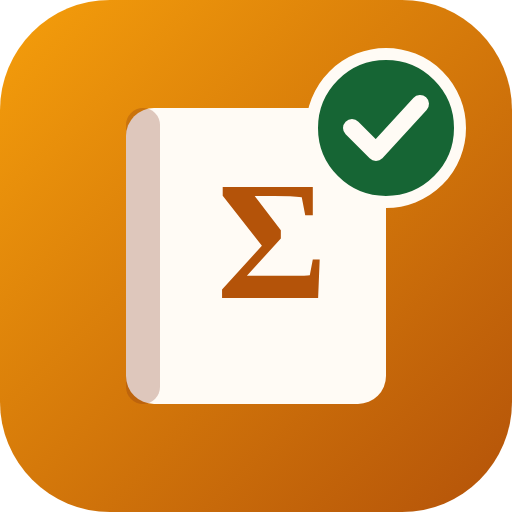
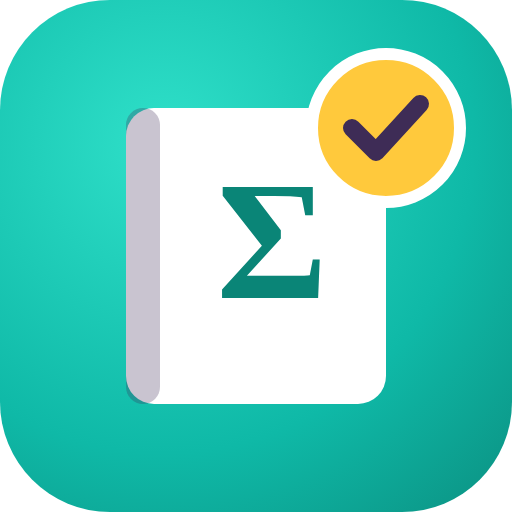
restyle: match the two-words-a-day design language; deploy workflow targets vocab app files
- Teal/coral/plum palette on the EAFBF5->FDF3E4 gradient background
- Hero counter restyled as the signature teal coin; pill tabs, white 22px
  cards with soft plum shadows, plum pill toast, coral delete/error accents
- Icon recolored to the teal palette (sun check badge); manifest colors updated
- sw.js cache bumped to v25

Claude-Session: https://claude.ai/code/session_01VUGRNPqvZ532vtdx7pnVj9

diff --git a/greek-vocab.html b/greek-vocab.html
@@ -7,104 +7,114 @@
 <link rel="manifest" href="greek-vocab-manifest.json">
 <link rel="icon" href="icon-greek-vocab.svg" type="image/svg+xml">
 <link rel="apple-touch-icon" href="icon-greek-vocab-180.png">
-<meta name="theme-color" content="#B45309">
+<meta name="theme-color" content="#0FB9A7">
 <meta name="apple-mobile-web-app-capable" content="yes">
 <meta name="apple-mobile-web-app-status-bar-style" content="default">
 <meta name="apple-mobile-web-app-title" content="אוצר מילים">
 <style>
-*{box-sizing:border-box;margin:0;padding:0;-webkit-tap-highlight-color:transparent;}
-html,body{font-family:-apple-system,BlinkMacSystemFont,'Segoe UI',sans-serif;background:#fffbf5;color:#1e293b;}
-body{min-height:100vh;padding:env(safe-area-inset-top) 0 calc(env(safe-area-inset-bottom) + 20px);}
-.container{max-width:480px;margin:0 auto;padding:20px 16px;}
+  :root{
+    --teal:#0FB9A7; --teal-dark:#0A8577;
+    --coral:#FF6B6B; --sun:#FFC93C; --plum:#3E2C56;
+    --bg1:#EAFBF5; --bg2:#FDF3E4;
+  }
+  *{box-sizing:border-box;margin:0;padding:0;-webkit-tap-highlight-color:transparent;}
+  html,body{font-family:-apple-system,BlinkMacSystemFont,'Segoe UI',Helvetica,Arial,sans-serif;color:var(--plum);}
+  body{min-height:100vh;background:linear-gradient(160deg,var(--bg1) 0%,var(--bg2) 100%);padding:calc(env(safe-area-inset-top) + 8px) 0 calc(env(safe-area-inset-bottom) + 44px);overflow-x:hidden;}
+  .container{max-width:440px;margin:0 auto;padding:20px;}
+  button{transition:transform .16s ease, box-shadow .3s ease, opacity .2s ease;}
 
-/* header */
-header{text-align:center;margin-bottom:16px;}
-header h1{font-size:22px;font-weight:800;color:#7c2d12;}
-header .sub{font-size:13px;color:#a16207;margin-top:2px;}
-.hero{margin:14px auto 0;width:150px;height:150px;border-radius:50%;background:#fff;border:1px solid #fde9c8;
-  display:flex;flex-direction:column;align-items:center;justify-content:center;box-shadow:0 4px 18px rgba(180,83,9,0.10);}
-.hero .num{font-size:52px;font-weight:800;color:#b45309;line-height:1;transition:transform .2s;}
-.hero .num.bump{transform:scale(1.25);}
-.hero .lbl{font-size:13px;color:#78716c;margin-top:4px;font-weight:600;}
-.hero .days{font-size:11px;color:#a8a29e;margin-top:2px;}
+  /* header */
+  header{text-align:center;margin-bottom:4px;}
+  header h1{font-size:1.35rem;font-weight:800;color:var(--plum);}
+  header .sub{font-size:0.85rem;color:rgba(62,44,86,0.5);margin-top:3px;font-weight:600;}
+  .hero{margin:20px auto 0;width:185px;height:185px;border-radius:50%;
+    background:radial-gradient(circle at 32% 28%,#2FE0C9,var(--teal) 55%,var(--teal-dark) 100%);
+    box-shadow:0 12px 32px rgba(15,185,167,0.35), inset 0 -8px 18px rgba(0,0,0,0.12), inset 0 6px 14px rgba(255,255,255,0.25);
+    display:flex;flex-direction:column;align-items:center;justify-content:center;color:#fff;}
+  .hero .num{font-size:3.6rem;font-weight:800;line-height:1;transition:transform .2s ease;}
+  .hero .num.bump{transform:scale(1.22);}
+  .hero .lbl{font-size:0.82rem;font-weight:700;margin-top:6px;opacity:0.95;}
+  .hero .days{font-size:0.72rem;opacity:0.8;margin-top:2px;}
 
-/* tabs */
-.tabs{display:flex;gap:8px;background:#f5efe4;border-radius:14px;padding:4px;margin:18px 0 16px;}
-.tabs button{flex:1;padding:10px 0;border:none;border-radius:11px;background:transparent;font-size:15px;font-weight:700;color:#78716c;font-family:inherit;cursor:pointer;}
-.tabs button.on{background:#fff;color:#7c2d12;box-shadow:0 1px 4px rgba(0,0,0,0.08);}
+  /* tabs */
+  .tabs{display:flex;gap:4px;background:rgba(255,255,255,0.85);border-radius:99px;padding:4px;margin:22px 0 16px;box-shadow:0 2px 10px rgba(62,44,86,0.12);}
+  .tabs button{flex:1;padding:10px 0;border:none;border-radius:99px;background:transparent;font-size:0.9rem;font-weight:700;color:rgba(62,44,86,0.55);font-family:inherit;cursor:pointer;}
+  .tabs button.on{background:var(--teal);color:#fff;box-shadow:0 4px 14px rgba(15,185,167,0.35);}
 
-.card{background:#fff;border:1px solid #f1e7d6;border-radius:16px;padding:16px;margin-bottom:14px;}
-.card h2{font-size:15px;font-weight:800;color:#7c2d12;margin-bottom:10px;}
+  .card{background:#fff;border-radius:22px;padding:20px;margin-bottom:14px;box-shadow:0 10px 30px rgba(62,44,86,0.10);opacity:0;transform:translateY(14px);animation:rise .35s ease forwards;}
+  @keyframes rise{to{opacity:1;transform:translateY(0);}}
+  .card h2{font-size:0.98rem;font-weight:800;color:var(--plum);margin-bottom:12px;}
 
-/* add form */
-.field{margin-bottom:10px;}
-.field label{display:block;font-size:12px;font-weight:700;color:#a16207;margin-bottom:4px;}
-.field input{width:100%;padding:12px 14px;border:1.5px solid #e7dcc8;border-radius:12px;font-size:17px;font-family:inherit;background:#fffdf9;color:#1e293b;outline:none;}
-.field input:focus{border-color:#d97706;}
-.field input[dir=ltr]{text-align:left;}
-.hint{font-size:11px;color:#a8a29e;margin-top:3px;}
-.btn{width:100%;padding:13px;border:none;border-radius:12px;font-size:16px;font-weight:800;font-family:inherit;cursor:pointer;}
-.btn-main{background:#b45309;color:#fff;}
-.btn-main:active{background:#92400e;}
-.btn-main:disabled{background:#e7dcc8;color:#a8a29e;}
-.btn-ghost{background:#f5efe4;color:#7c2d12;}
-.btn-row{display:flex;gap:8px;margin-top:10px;}
-.btn-row .btn{width:auto;flex:1;padding:11px;font-size:14px;}
+  /* add form */
+  .field{margin-bottom:10px;}
+  .field label{display:block;font-size:0.76rem;font-weight:700;color:rgba(62,44,86,0.55);margin-bottom:5px;}
+  .field input{width:100%;padding:12px 14px;border:1.5px solid rgba(62,44,86,0.15);border-radius:14px;font-size:1.05rem;font-family:inherit;background:#fff;color:var(--plum);outline:none;transition:border-color .2s ease;}
+  .field input:focus{border-color:var(--teal);}
+  .field input::placeholder{color:rgba(62,44,86,0.3);}
+  .field input[dir=ltr]{text-align:left;}
+  .hint{font-size:0.7rem;color:rgba(62,44,86,0.45);margin-top:8px;text-align:center;}
+  .btn{width:100%;padding:14px;border:none;border-radius:16px;font-size:1rem;font-weight:800;font-family:inherit;cursor:pointer;}
+  .btn:active{transform:scale(0.97);opacity:.9;}
+  .btn-main{background:var(--teal);color:#fff;box-shadow:0 8px 22px rgba(15,185,167,0.35);}
+  .btn-main:disabled{background:rgba(62,44,86,0.08);color:rgba(62,44,86,0.4);box-shadow:none;}
+  .btn-ghost{background:rgba(62,44,86,0.06);color:var(--plum);}
+  .btn-row{display:flex;gap:9px;margin-top:12px;}
+  .btn-row .btn{width:auto;flex:1;padding:12px 8px;font-size:0.85rem;}
 
-/* verdict panel */
-.verdict{border-radius:14px;padding:14px;margin-bottom:14px;font-size:14px;line-height:1.6;display:none;}
-.verdict.show{display:block;animation:pop .25s;}
-@keyframes pop{from{transform:scale(.96);opacity:0;}to{transform:scale(1);opacity:1;}}
-.verdict.ok{background:#f0fdf4;border:1.5px solid #bbf7d0;color:#166534;}
-.verdict.warn{background:#fffbeb;border:1.5px solid #fde68a;color:#92400e;}
-.verdict.bad{background:#fef2f2;border:1.5px solid #fecaca;color:#991b1b;}
-.verdict .big-el{font-size:22px;font-weight:800;direction:ltr;display:inline-block;}
-.verdict .tr{font-size:13px;opacity:.75;direction:ltr;display:inline-block;}
+  /* verdict panel */
+  .verdict{border-radius:18px;padding:16px;margin-bottom:14px;font-size:0.9rem;line-height:1.65;display:none;}
+  .verdict.show{display:block;animation:rise .35s ease both;}
+  .verdict.ok{background:rgba(15,185,167,0.14);color:var(--teal-dark);}
+  .verdict.warn{background:rgba(255,201,60,0.25);color:#7a5a00;}
+  .verdict.bad{background:rgba(255,107,107,0.14);color:#c93a3a;}
+  .verdict .btn-ghost{background:rgba(255,255,255,0.75);}
+  .verdict .big-el{font-size:1.4rem;font-weight:800;direction:ltr;display:inline-block;}
+  .verdict .tr{font-size:0.8rem;opacity:.7;direction:ltr;display:inline-block;}
 
-/* word list */
-.search{width:100%;padding:10px 14px;border:1.5px solid #e7dcc8;border-radius:12px;font-size:15px;font-family:inherit;background:#fff;outline:none;margin-bottom:12px;}
-.word{background:#fff;border:1px solid #f1e7d6;border-radius:14px;padding:12px 14px;margin-bottom:8px;display:flex;align-items:center;gap:12px;}
-.word .info{flex:1;min-width:0;}
-.word .el{font-size:19px;font-weight:800;color:#7c2d12;direction:ltr;text-align:right;unicode-bidi:isolate;}
-.word .el .wtr{font-size:12px;font-weight:500;color:#a8a29e;margin-inline-start:6px;}
-.word .he{font-size:14px;color:#57534e;margin-top:1px;}
-.word .meta{font-size:11px;color:#a8a29e;margin-top:3px;}
-.word .meta .unv{color:#d97706;}
-.icon-btn{width:42px;height:42px;border-radius:12px;border:none;font-size:19px;cursor:pointer;flex-shrink:0;display:flex;align-items:center;justify-content:center;font-family:inherit;}
-.play{background:#fef3e2;}
-.play.speaking{background:#b45309;}
-.del{background:transparent;color:#d6d3d1;font-size:16px;width:34px;}
-.del.arm{background:#fef2f2;color:#dc2626;font-size:12px;font-weight:800;width:auto;padding:0 10px;}
-.empty{text-align:center;color:#a8a29e;font-size:14px;padding:30px 10px;line-height:1.7;}
-.empty .e{font-size:40px;}
+  /* word list */
+  .search{width:100%;padding:12px 18px;border:none;border-radius:99px;font-size:0.9rem;font-family:inherit;background:rgba(255,255,255,0.85);box-shadow:0 2px 10px rgba(62,44,86,0.12);outline:none;margin-bottom:12px;color:var(--plum);}
+  .search::placeholder{color:rgba(62,44,86,0.35);}
+  .word{background:#fff;border-radius:18px;padding:12px 14px;margin-bottom:10px;display:flex;align-items:center;gap:12px;box-shadow:0 6px 18px rgba(62,44,86,0.08);animation:rise .3s ease both;}
+  .word .info{flex:1;min-width:0;}
+  .word .el{font-size:1.25rem;font-weight:800;color:var(--teal-dark);direction:ltr;text-align:right;unicode-bidi:isolate;}
+  .word .el .wtr{font-size:0.72rem;font-weight:500;color:rgba(62,44,86,0.4);margin-inline-start:7px;}
+  .word .he{font-size:0.9rem;color:rgba(62,44,86,0.65);font-weight:600;margin-top:1px;}
+  .word .meta{font-size:0.68rem;color:rgba(62,44,86,0.38);margin-top:3px;}
+  .word .meta .unv{color:var(--coral);font-weight:700;}
+  .icon-btn{width:44px;height:44px;border-radius:14px;border:none;font-size:1.1rem;cursor:pointer;flex-shrink:0;display:flex;align-items:center;justify-content:center;font-family:inherit;}
+  .icon-btn:active{transform:scale(0.94);}
+  .play{background:rgba(15,185,167,0.12);color:var(--teal-dark);}
+  .play.speaking{background:var(--teal);color:#fff;animation:speakpulse 1s ease-in-out infinite;}
+  @keyframes speakpulse{0%,100%{opacity:1;}50%{opacity:0.72;}}
+  .del{background:transparent;color:rgba(62,44,86,0.25);font-size:0.95rem;width:34px;}
+  .del.arm{background:var(--coral);color:#fff;font-size:0.72rem;font-weight:800;width:auto;padding:0 14px;border-radius:99px;}
+  .empty{text-align:center;color:rgba(62,44,86,0.45);font-size:0.88rem;padding:30px 10px;line-height:1.8;}
+  .empty .e{font-size:2.4rem;}
 
-/* stats */
-.tiles{display:grid;grid-template-columns:1fr 1fr;gap:10px;margin-bottom:14px;}
-.tile{background:#fff;border:1px solid #f1e7d6;border-radius:16px;padding:14px;text-align:center;}
-.tile .v{font-size:30px;font-weight:800;color:#b45309;line-height:1.15;}
-.tile .k{font-size:12px;color:#78716c;margin-top:3px;font-weight:600;}
-.date-row{display:flex;align-items:center;gap:10px;}
-.date-row label{font-size:13px;font-weight:700;color:#57534e;flex:1;}
-.date-row input{padding:9px 12px;border:1.5px solid #e7dcc8;border-radius:10px;font-size:15px;font-family:inherit;background:#fffdf9;color:#1e293b;}
+  /* stats */
+  .tiles{display:grid;grid-template-columns:1fr 1fr;gap:11px;margin-bottom:14px;}
+  .tile{background:#fff;border-radius:20px;padding:16px 12px;text-align:center;box-shadow:0 10px 30px rgba(62,44,86,0.08);opacity:0;transform:translateY(14px);animation:rise .35s ease forwards;}
+  .tile .v{font-size:1.9rem;font-weight:800;color:var(--teal-dark);line-height:1.15;}
+  .tile .k{font-size:0.74rem;color:rgba(62,44,86,0.5);margin-top:4px;font-weight:600;}
+  .date-row{display:flex;align-items:center;justify-content:space-between;gap:10px;background:rgba(15,185,167,0.06);border-radius:14px;padding:10px 14px;font-size:0.85rem;font-weight:600;color:rgba(62,44,86,0.7);}
+  .date-row label{flex:1;}
+  .date-row input{border:1px solid rgba(62,44,86,0.15);border-radius:10px;padding:7px 10px;font-size:0.85rem;color:var(--teal-dark);background:#fff;font-family:inherit;}
 
-/* chart */
-.chart-wrap{position:relative;}
-.chart{display:flex;align-items:flex-end;gap:2px;height:120px;padding-top:18px;direction:ltr;}
-.cxl{direction:ltr;}
-.cbar{flex:1;display:flex;flex-direction:column;justify-content:flex-end;height:100%;cursor:pointer;position:relative;}
-.cbar .fill{background:#d97706;border-radius:4px 4px 0 0;min-height:0;width:100%;transition:height .3s;}
-.cbar.zero .fill{height:2px !important;background:#ede5d3;border-radius:1px;}
-.cbar.today .fill{background:#92400e;}
-.cxl{display:flex;gap:2px;margin-top:6px;}
-.cxl span{flex:1;text-align:center;font-size:9px;color:#a8a29e;}
-.ttip{position:absolute;background:#292524;color:#fff;font-size:12px;padding:6px 10px;border-radius:8px;pointer-events:none;white-space:nowrap;transform:translate(50%,-100%);display:none;z-index:5;line-height:1.5;}
-.ttip.show{display:block;}
-.gline{position:absolute;left:0;right:0;border-top:1px dashed #ede5d3;font-size:9px;color:#c8bfa9;}
-.gline span{position:absolute;top:-13px;right:0;background:#fff;padding:0 3px;}
+  /* chart */
+  .chart-wrap{position:relative;}
+  .chart{display:flex;align-items:flex-end;gap:3px;height:120px;padding-top:18px;direction:ltr;}
+  .cbar{flex:1;display:flex;flex-direction:column;justify-content:flex-end;height:100%;cursor:pointer;position:relative;}
+  .cbar .fill{background:var(--teal);border-radius:4px 4px 0 0;width:100%;transition:height .3s;}
+  .cbar.zero .fill{height:3px !important;background:rgba(62,44,86,0.08);border-radius:2px;}
+  .cbar.today .fill{background:var(--teal-dark);}
+  .cxl{display:flex;gap:3px;margin-top:6px;direction:ltr;}
+  .cxl span{flex:1;text-align:center;font-size:0.6rem;color:rgba(62,44,86,0.4);}
+  .ttip{position:absolute;background:var(--plum);color:#fff;font-size:0.75rem;padding:6px 11px;border-radius:10px;pointer-events:none;white-space:nowrap;transform:translate(50%,-100%);display:none;z-index:5;line-height:1.5;box-shadow:0 6px 18px rgba(62,44,86,0.3);}
+  .ttip.show{display:block;}
 
-.toast{position:fixed;bottom:calc(env(safe-area-inset-bottom) + 24px);left:50%;transform:translateX(-50%) translateY(80px);background:#292524;color:#fff;padding:11px 20px;border-radius:24px;font-size:14px;font-weight:600;opacity:0;transition:all .3s;z-index:50;max-width:88vw;text-align:center;}
-.toast.show{transform:translateX(-50%) translateY(0);opacity:1;}
-.hidden{display:none !important;}
+  .toast{position:fixed;left:50%;bottom:34px;transform:translate(-50%,16px);z-index:60;background:var(--plum);color:#fff;font-size:0.85rem;font-weight:700;padding:11px 20px;border-radius:99px;box-shadow:0 10px 28px rgba(62,44,86,0.3);opacity:0;pointer-events:none;transition:opacity .28s ease, transform .28s cubic-bezier(.22,1,.36,1);max-width:88vw;text-align:center;}
+  .toast.show{opacity:1;transform:translate(-50%,0);}
+  .hidden{display:none !important;}
 </style>
 </head>
 <body>

diff --git a/sw.js b/sw.js
@@ -1,4 +1,4 @@
-const CACHE = 'apps-v24';
+const CACHE = 'apps-v25';
 const SHELL = ['./index.html', './hiit.html', './shopping-list.html', './greek-vocab.html', './greek-vocab-manifest.json', './icon-greek-vocab.svg', './icon-greek-vocab-180.png', './icon-greek-vocab-512.png', './greek-daily.html', './greek-street.html', './greek-quest.html', './greek-abc.html', './greek-verbs.html', './deal.html', './manifest.json', './hiit-manifest.json', './greek-daily-manifest.json', './greek-street-manifest.json', './greek-quest-manifest.json', './greek-abc-manifest.json', './greek-verbs-manifest.json', './deal-manifest.json', './icon.svg', './icon-hiit.svg', './icon-shopping.svg', './icon-greek.svg', './icon-greek-daily-v3.svg', './icon-greek-street.svg', './icon-greek-quest.svg', './icon-fitness.svg', './icon-hiit-512.png', './icon-shopping-180.png', './icon-greek-180.png', './icon-greek-daily-180-v3.png', './icon-greek-daily-512-v3.png', './icon-greek-street-180.png', './icon-greek-quest-180.png', './icon-fitness-180.png'];
 
 self.addEventListener('install', e => {

diff --git a/index.html b/index.html
@@ -42,7 +42,7 @@ a.card:active{transform:scale(0.98);box-shadow:0 2px 8px rgba(0,0,0,0.08);}
       </div>
     </a>
     <a class="card" href="greek-vocab.html">
-      <div class="card-icon" style="background:#fef3e2;">📒</div>
+      <div class="card-icon" style="background:#e1f8f2;">📒</div>
       <div class="card-text">
         <h2>אוצר המילים שלי</h2>
         <p>ספירת המילים שלמדת ביוונית — אימות, השמעה וסטטיסטיקות</p>
